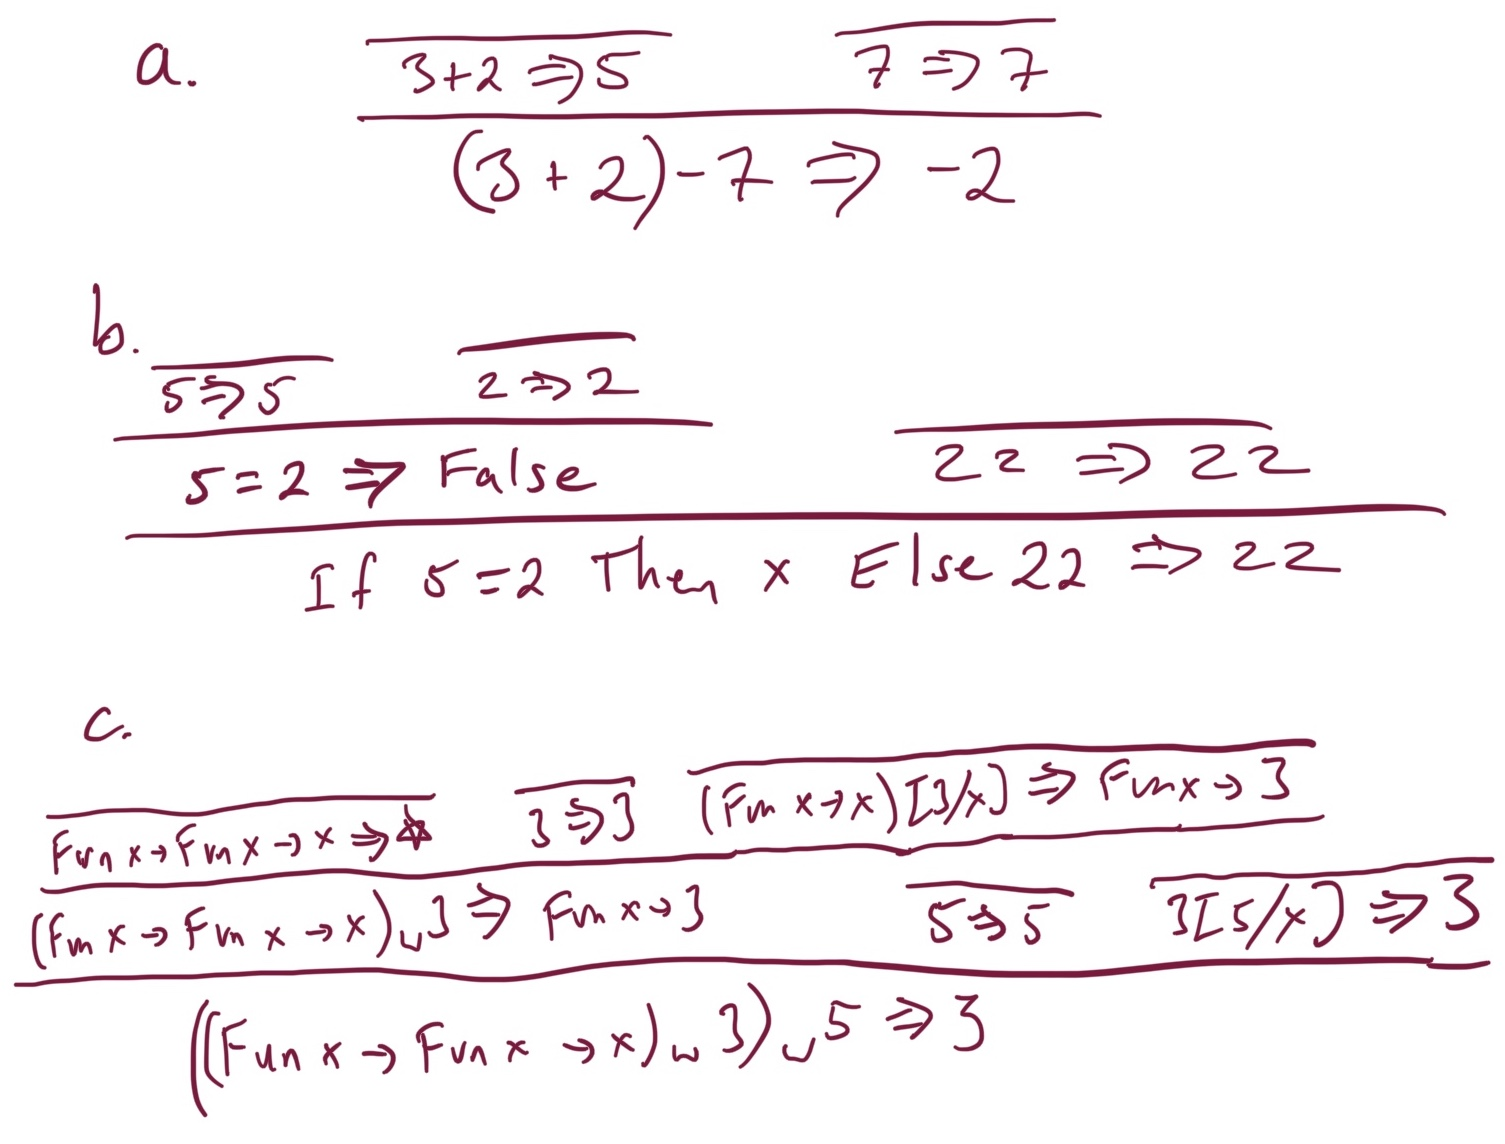
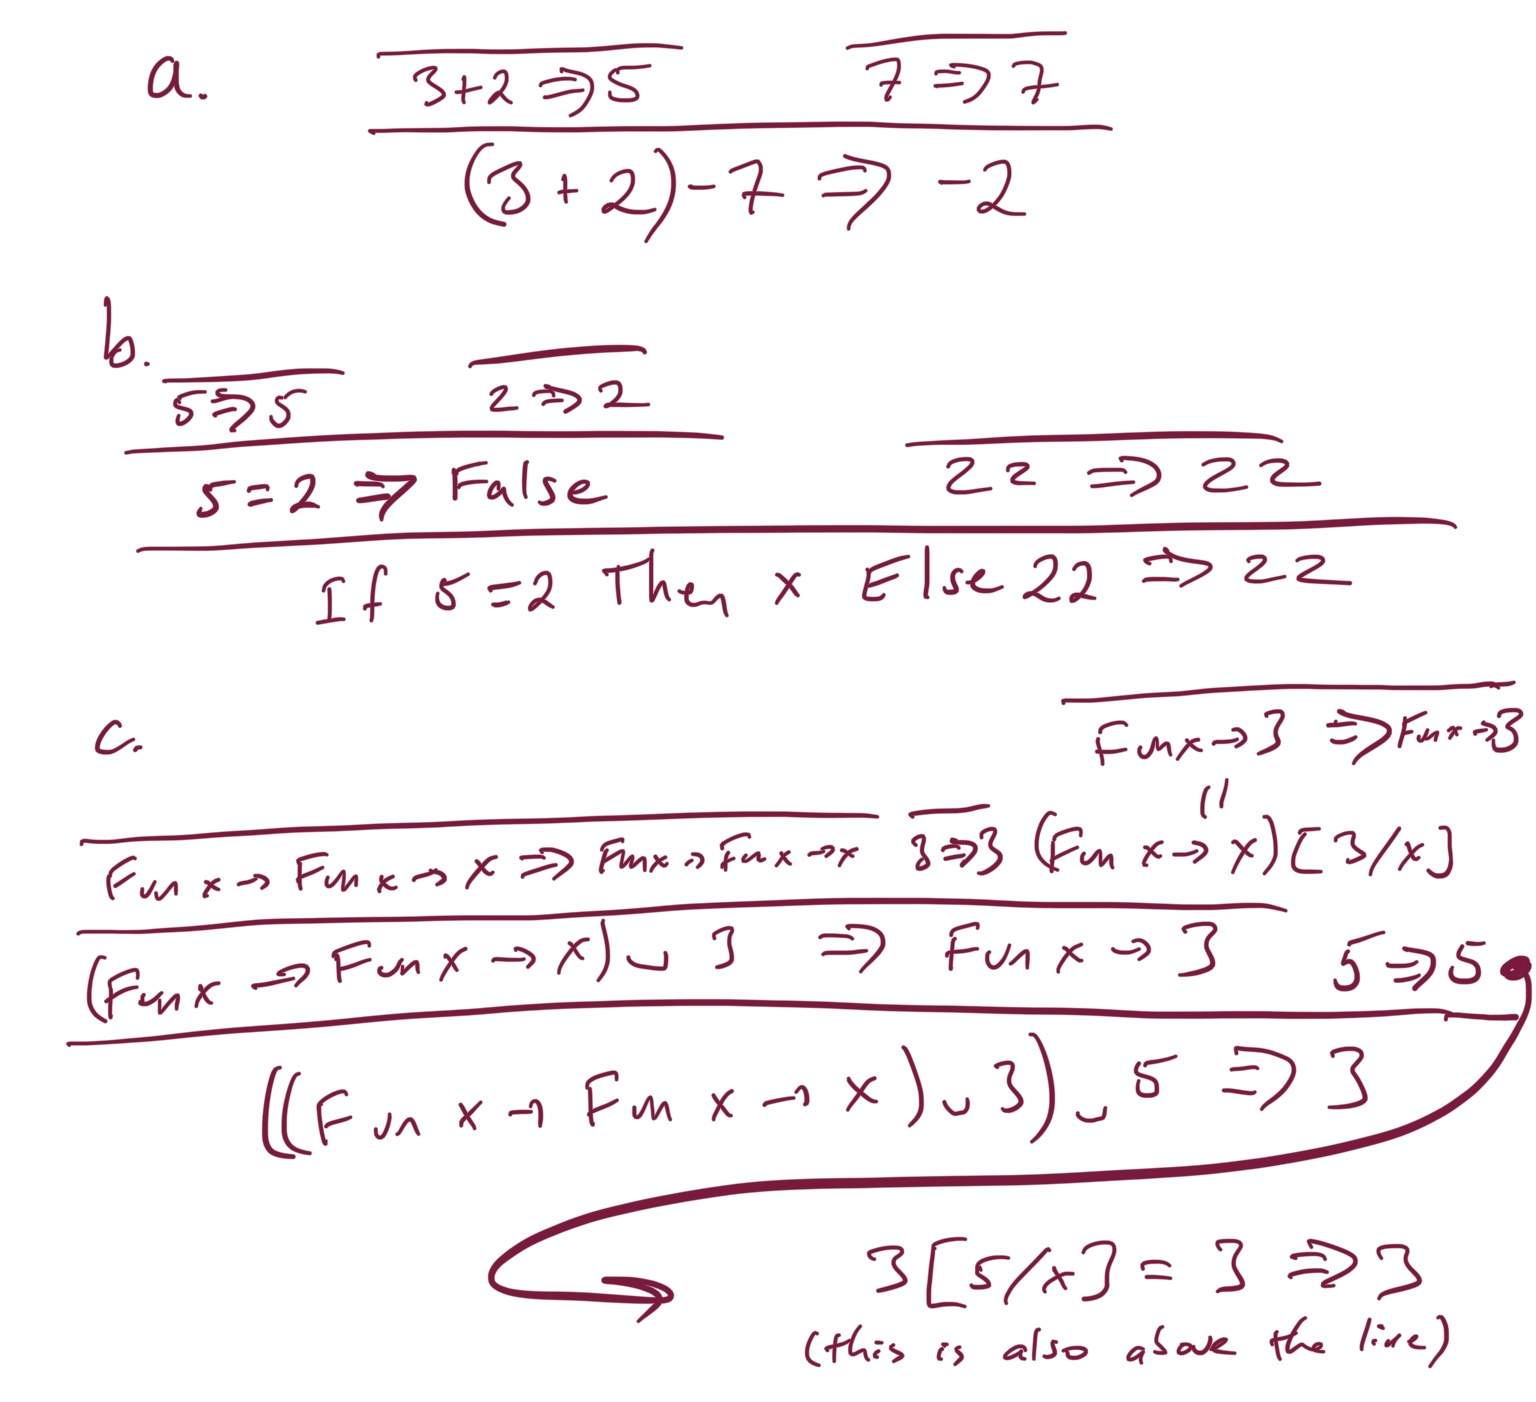
no message

diff --git a/assignments/assignment3.html b/assignments/assignment3.html
@@ -104,9 +104,9 @@
     <p>f.  <code>(Let f = f In f f) [(Fun f -&gt; f)/f]</code></p>
   </li>
   <li>
-    <p>[9 points] The following Fb proof trees are not theorems.  Describe why the proof tree is not valid (i.e. why the last line is in fact not a theorem).</p>
+    <p>[9 points] The following Fb proof trees are not theorems.  Describe why the proof tree is not valid (i.e. why the last line is in fact not a theorem).  Note the star here is used like in the book, it means the expression on the left computes to itself.</p>
 
-    <p><img src="a3q2.jpg" width="500" /></p>
+    <p><img src="a3q2a.jpg" width="500" /></p>
   </li>
   <li>
     <p>[15 points] Write operational semantics proofs (i.e., proof trees) showing what the following expressions evaluate to in the Fb operational semantics. Please give the whole proof trees, using the rules in Chapter 2.  You may reference one proof tree in another like a “proof tree macro” to make your answer more readable if you want (in other words, you can re-use any one proof tree in another, just like how proofs of Lemmas can be used in Theorems in math).  Note it is not a bad idea to start by running them in the reference interpreter to make sure you are on the right path.</p>

diff --git a/assignments/assignment3.md b/assignments/assignment3.md
@@ -16,9 +16,9 @@ This is a short homework giving you some practice with operational semantics bef
 
     f.  `(Let f = f In f f) [(Fun f -> f)/f]`
 
-2. [9 points] The following Fb proof trees are not theorems.  Describe why the proof tree is not valid (i.e. why the last line is in fact not a theorem).
+2. [9 points] The following Fb proof trees are not theorems.  Describe why the proof tree is not valid (i.e. why the last line is in fact not a theorem).  Note the star here is used like in the book, it means the expression on the left computes to itself.
 
-    <img src="a3q2.jpg" width=500>
+    <img src="a3q2a.jpg" width=500>
 
 3.  [15 points] Write operational semantics proofs (i.e., proof trees) showing what the following expressions evaluate to in the Fb operational semantics. Please give the whole proof trees, using the rules in Chapter 2.  You may reference one proof tree in another like a "proof tree macro" to make your answer more readable if you want (in other words, you can re-use any one proof tree in another, just like how proofs of Lemmas can be used in Theorems in math).  Note it is not a bad idea to start by running them in the reference interpreter to make sure you are on the right path.
 
